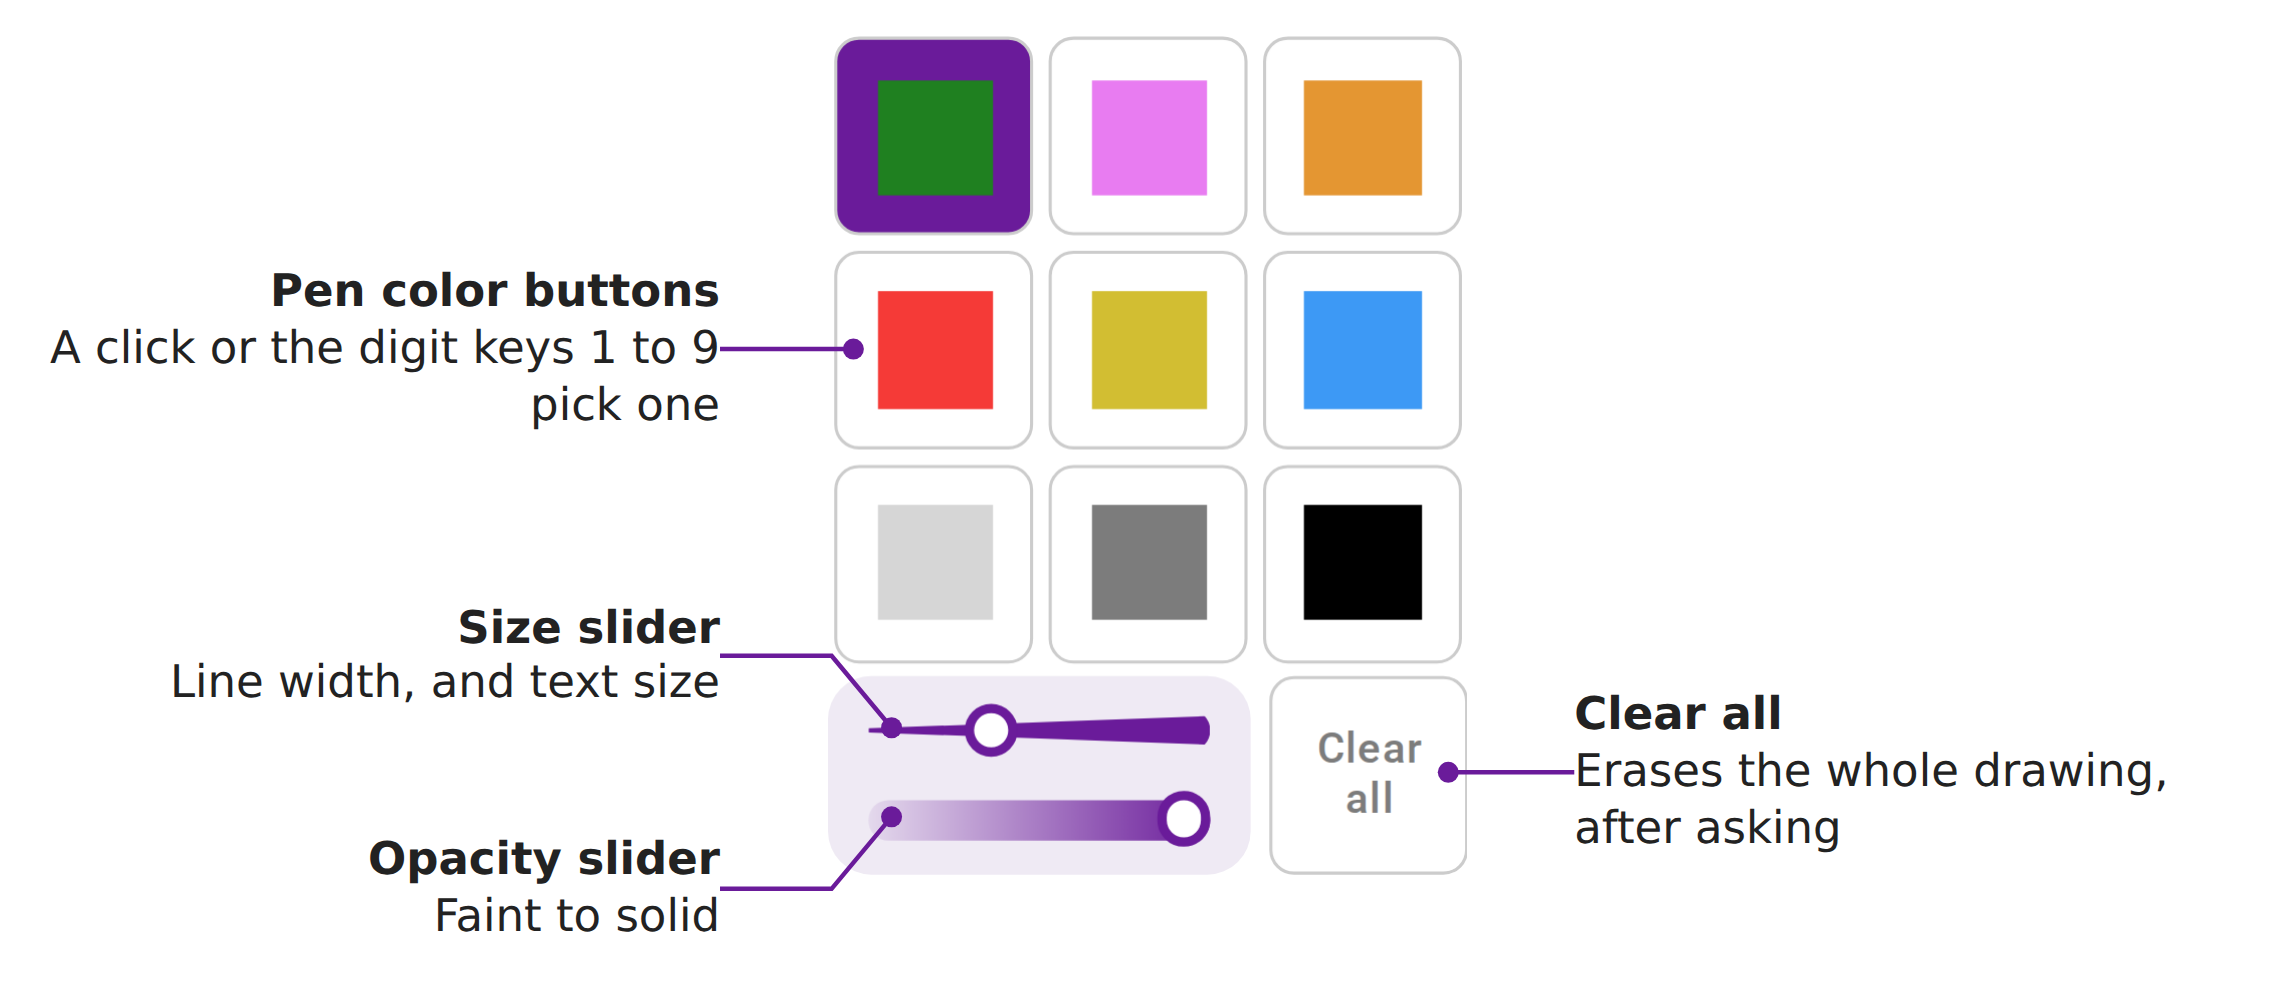
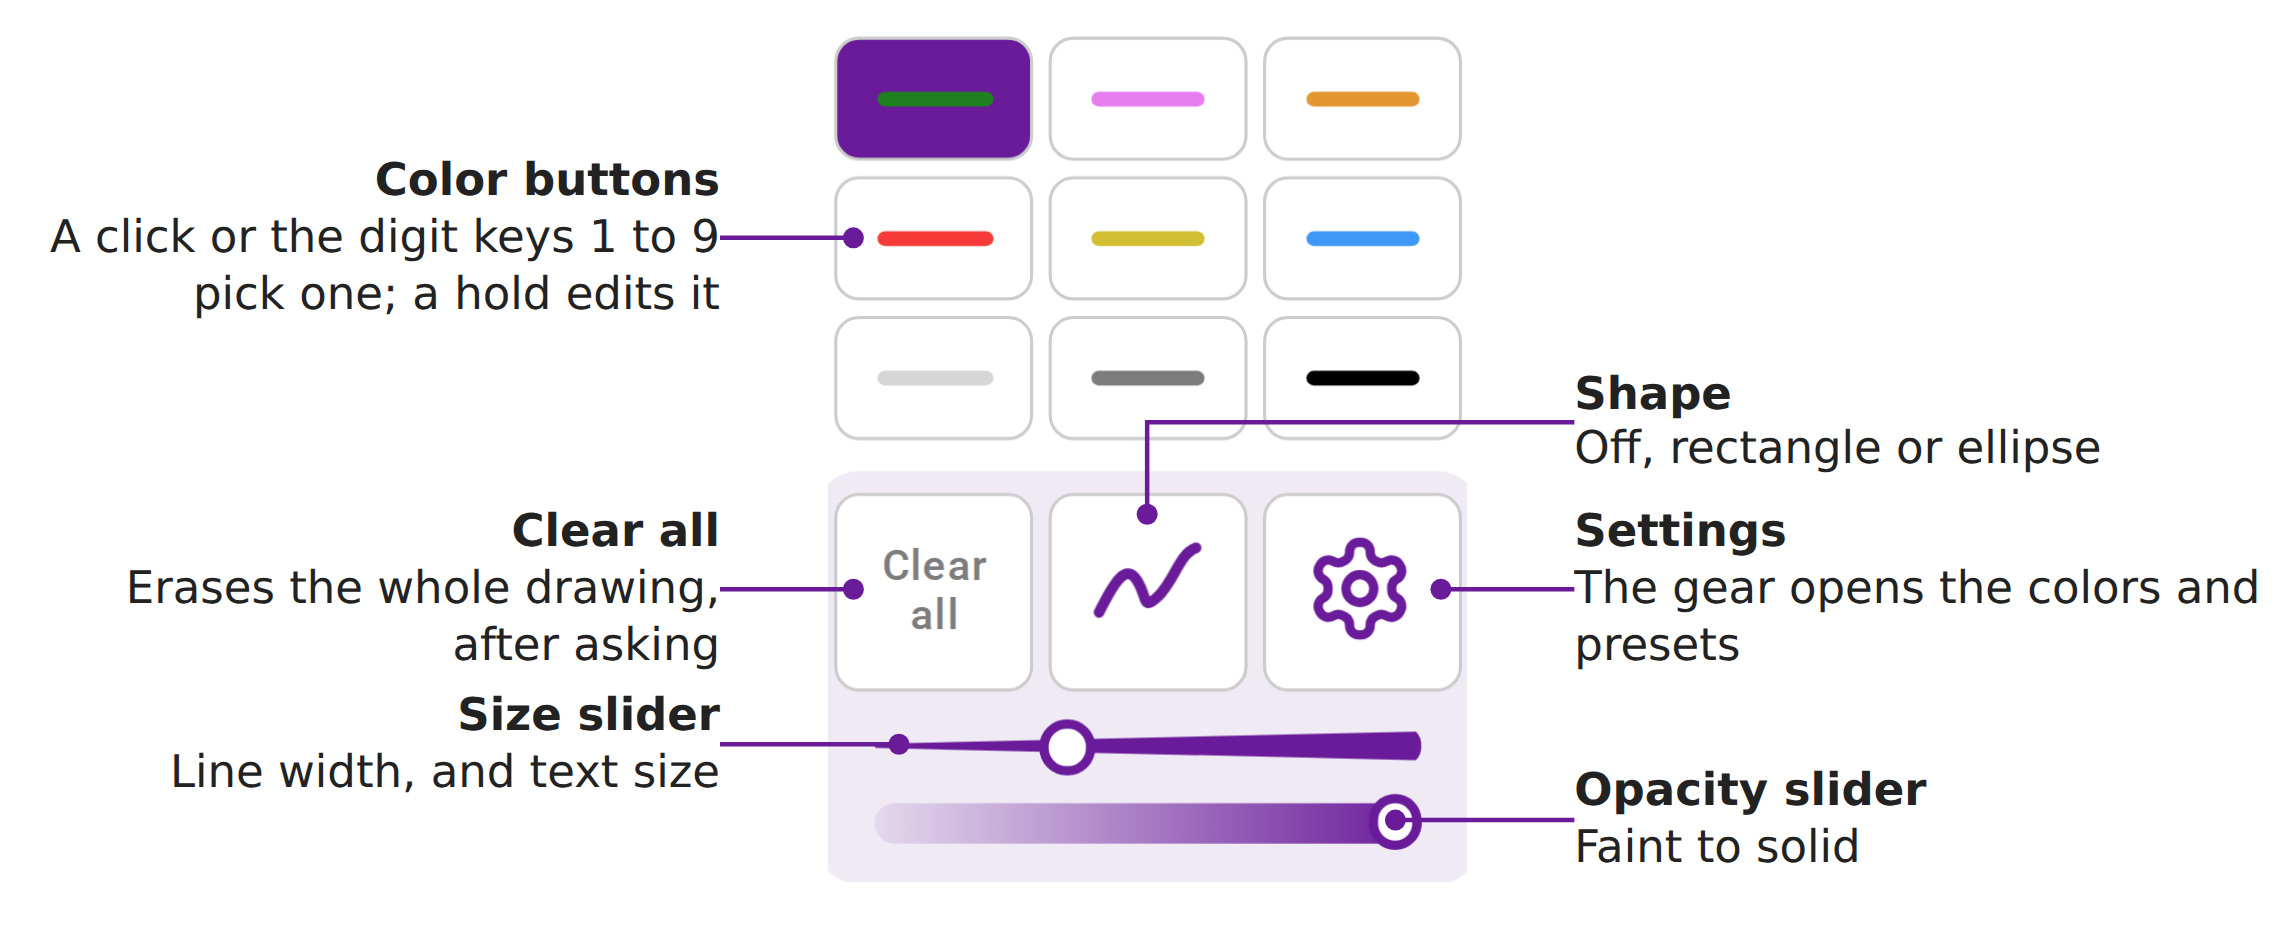
Draw Tool site: new summary, details page and pictures for the new panel
Summary and @description drop "in the pen colors" and name shapes (0.11.1).
Details page adds Shapes, Colors of its own and Settings, with Text, Erasing
and Shapes as animations; the annotated panel and homepage pictures are retaken.

Closes #312

Changed region(s): [[0.0309, 0.0312, 0.99, 0.9355], [0.1856, 0.9043, 0.3094, 0.9355]]

diff --git a/site.test.js b/site.test.js
@@ -363,8 +363,15 @@ test(`${CBD} good to know gives the undo behavior and the Multi-color caveat`, (
 })
 
 // Draw Tool's entry and details page.
-const DRAW_SUMMARY = 'Adds a Draw tool for freehand lines and typed text, such as cage sums, in the pen colors. Each puzzle keeps its own drawing.'
-const DRAW_LEAD_INS = ['Freehand lines.', 'Text.', 'Size and opacity.', 'Erasing.', 'Stays on the cells.', 'Kept for each puzzle.']
+const DRAW_SUMMARY = 'Adds a Draw tool for freehand lines, shapes and typed text, such as cage sums, in colors of its own. Each puzzle keeps its own drawing.'
+const DRAW_LEAD_INS = ['Freehand lines.', 'Shapes.', 'Text.', 'Colors of its own.', 'Size and opacity.', 'Erasing.', 'Settings.', 'Stays on the cells.', 'Kept for each puzzle.']
+// The three animations on the details page: the lead-in each sits on, its file, and what its alt text must say.
+const DRAW_GIFS = {
+  'Shapes.': ['draw-tool-details-shapes.gif', /rectangle[^"]*snaps to the edges/],
+  'Text.': ['draw-tool-details-text.gif', /Enter[^"]*\b15\b/],
+  'Erasing.': ['draw-tool-details-erasing.gif', /right-drag[^"]*removes/]
+}
+const GIF_LIMIT_BYTES = 300 * 1024
 
 test(`${HOME} describes Draw Tool in a short summary ending in a Details link`, () => {
   const m = read(HOME).match(/<h2>Draw Tool<\/h2>\s*<p>([\s\S]*?)<\/p>/)
@@ -375,10 +382,13 @@ test(`${HOME} describes Draw Tool in a short summary ending in a Details link`, 
 test(`${DRAW} lists what the script adds, one item per feature`, () => {
   assert.deepEqual(section(DRAW, 'What it adds'), [
     'Freehand lines. Drag on the puzzle to draw; hold Shift for a straight line.',
+    'Shapes. The Shape button steps between Off, rectangle and ellipse. With a shape on, a drag draws it, snapped to the edges of the cells it covers; hold Alt for the exact box you dragged.',
     'Text. Click without dragging to type, such as a cage sum. Enter or a click elsewhere finishes it, Escape drops it, and a click on text changes it.',
-    'Size and opacity. The Size slider sets the width of the next line and the size of the next text, and the Opacity slider how solid it is. A line or text keeps the size and opacity it was drawn with.',
-    'Erasing. Drag with the right mouse button across a line or text to erase it. Clear all, which asks first, erases everything.',
-    'Stays on the cells. Lines and text stay on the cells you drew them on, and stay visible when you switch back to entering digits.',
+    'Colors of its own. Nine colors that belong to Draw Tool, not to SudokuPad\'s pen. A click on a color button or the digit keys 1 to 9 pick one, and a hold on a button puts a color picker over each to change it.',
+    'Size and opacity. The Size slider sets the width of the next line or shape and the size of the next text, and the Opacity slider how solid it is. A line, shape or text keeps the size and opacity it was drawn with.',
+    'Erasing. Drag with the right mouse button across a line, shape or text to erase it. Clear all, which asks first, erases everything.',
+    'Settings. The gear opens a dialog with a list of color presets (the pen colors, three darker page sets and SudokuPad\'s colors), a color picker for each of the nine colors, and Copy settings and Paste settings to move them to another browser.',
+    'Stays on the cells. Lines, shapes and text stay on the cells you drew them on, and stay visible when you switch back to entering digits.',
     'Kept for each puzzle. A reload keeps the drawing, for the 50 puzzles you drew on last, and Restart clears it. If a drawing cannot be saved, a message says so.'
   ])
   assert.deepEqual(leadIns(read(DRAW)), DRAW_LEAD_INS)
@@ -391,10 +401,26 @@ test(`${DRAW} shows the Draw panel as one annotated picture whose alt text names
   assert.equal(found.length, 1, 'the Draw panel section is not one picture')
   assert.ok(withoutTag(found[0]).includes(`src="${RAW}docs/research/draw-tool-panel-annotated.png"`))
   const alt = (found[0].match(/alt="([^"]*)"/) || [])[1] || ''
-  for (const label of ['Pen color buttons', 'Size slider', 'Opacity slider', 'Clear all']) {
+  for (const label of ['Color buttons', 'Clear all', 'Shape', 'Settings', 'Size slider', 'Opacity slider']) {
     assert.ok(alt.includes(label), `the picture's alt text does not name "${label}"`)
   }
   assert.match(alt, /digit keys 1 to 9/)
+})
+
+test(`${DRAW}'s Text, Erasing and Shapes pictures are animations under 300 KB whose alt text says so`, () => {
+  const byLeadIn = new Map(items(read(DRAW)).map(li => [leadIn(li), li]))
+  for (const [lead, [file, what]] of Object.entries(DRAW_GIFS)) {
+    const [img] = imgs(byLeadIn.get(lead))
+    assert.ok(withoutTag(img).includes(`src="${RAW}docs/research/${file}"`), `"${lead}" does not show ${file}`)
+    const alt = (img.match(/alt="([^"]*)"/) || [])[1] || ''
+    assert.match(alt, /^An animation/, `"${lead}" alt text does not say it is an animation`)
+    assert.match(img.match(/alt="[^"]*"/)[0], what, `"${lead}" alt text does not describe its steps`)
+    const file2 = `docs/research/${file}`
+    assert.ok(fs.statSync(path.join(__dirname, file2)).size < GIF_LIMIT_BYTES, `${file} is over 300 KB`)
+    const [fileW, fileH] = pictureSize(file2)
+    const [w, h] = ['width', 'height'].map(a => Number((img.match(new RegExp(`${a}="(\\d+)"`)) || [])[1]))
+    assert.ok(Math.abs(w * fileH - h * fileW) <= fileW, `"${lead}" is declared ${w} by ${h} but its file is ${fileW} by ${fileH}`)
+  }
 })
 
 test(`${DRAW} good to know says the drawing stays in this browser`, () => {
@@ -422,9 +448,9 @@ shared({
   script: 'draw-tool',
   name: 'Draw Tool',
   summary: DRAW_SUMMARY,
-  intro: 'Adds to SudokuPad a Draw tool: drag on the puzzle to draw freehand lines, and click to type text, such as cage sums, in the pen colors.',
+  intro: 'Adds to SudokuPad a Draw tool: drag on the puzzle to draw freehand lines or shapes, and click to type text, such as cage sums, in colors of its own.',
   leadIns: DRAW_LEAD_INS,
-  pictures: { 'Freehand lines.': 'draw-tool-bullet-lines', 'Text.': 'draw-tool-bullet-text' },
+  pictures: { 'Freehand lines.': 'draw-tool-bullet-lines', 'Shapes.': 'draw-tool-details-shapes.gif', 'Text.': 'draw-tool-details-text.gif', 'Erasing.': 'draw-tool-details-erasing.gif' },
   homePicture: 'site-draw-tool.png'
 })
 

diff --git a/site/draw-tool.html b/site/draw-tool.html
@@ -16,7 +16,7 @@
   <p><a href="index.html">&larr; All SudokuPad scripts</a></p>
   <h1>Draw Tool</h1>
   <p class="warning">This script can break at any time. It relies on SudokuPad's internals, which any update can change, and it isn't made or supported by SudokuPad.</p>
-  <p>Adds to <a href="https://sudokupad.app">SudokuPad</a> a Draw tool: drag on the puzzle to draw freehand lines, and click to type text, such as cage sums, in the pen colors.</p>
+  <p>Adds to <a href="https://sudokupad.app">SudokuPad</a> a Draw tool: drag on the puzzle to draw freehand lines or shapes, and click to type text, such as cage sums, in colors of its own.</p>
   <p><a class="install" href="https://raw.githubusercontent.com/caneff/sudokupad-scripts/main/draw-tool.user.js">Install Draw Tool</a></p>
 
   <h2>What it adds</h2>
@@ -24,17 +24,24 @@
     <li><strong>Freehand lines.</strong> Drag on the puzzle to draw; hold Shift for a straight line.
       <img src="https://raw.githubusercontent.com/caneff/sudokupad-scripts/main/docs/research/draw-tool-bullet-lines.png?v=8e6152d" alt="A thin blue straight line, a green loop round two cells and a thick red curved arrow drawn on a sudoku grid" width="360" height="396">
     </li>
-    <li><strong>Text.</strong> Click without dragging to type, such as a cage sum. Enter or a click elsewhere finishes it, Escape drops it, and a click on text changes it.
-      <img src="https://raw.githubusercontent.com/caneff/sudokupad-scripts/main/docs/research/draw-tool-bullet-text.png?v=f9dbff7" alt="An orange cage sum, 17, typed in the corner of a cell" width="149" height="149">
+    <li><strong>Shapes.</strong> The Shape button steps between Off, rectangle and ellipse. With a shape on, a drag draws it, snapped to the edges of the cells it covers; hold Alt for the exact box you dragged.
+      <img src="https://raw.githubusercontent.com/caneff/sudokupad-scripts/main/docs/research/draw-tool-details-shapes.gif?v=2513554" alt="An animation of a sudoku grid: with Shape set to rectangle, a drag from one cell to a cell two columns and one row away draws a blue rectangle that snaps to the edges of the four cells it covers, and the picture rests on that rectangle" width="290" height="290">
     </li>
-    <li><strong>Size and opacity.</strong> The Size slider sets the width of the next line and the size of the next text, and the Opacity slider how solid it is. A line or text keeps the size and opacity it was drawn with.</li>
-    <li><strong>Erasing.</strong> Drag with the right mouse button across a line or text to erase it. Clear all, which asks first, erases everything.</li>
-    <li><strong>Stays on the cells.</strong> Lines and text stay on the cells you drew them on, and stay visible when you switch back to entering digits.</li>
+    <li><strong>Text.</strong> Click without dragging to type, such as a cage sum. Enter or a click elsewhere finishes it, Escape drops it, and a click on text changes it.
+      <img src="https://raw.githubusercontent.com/caneff/sudokupad-scripts/main/docs/research/draw-tool-details-text.gif?v=6d3bd77" alt="An animation of one sudoku cell: a click in its corner opens a text box, 1 and 5 are typed, and Enter leaves the orange cage sum 15 in the corner" width="149" height="149">
+    </li>
+    <li><strong>Colors of its own.</strong> Nine colors that belong to Draw Tool, not to SudokuPad's pen. A click on a color button or the digit keys 1 to 9 pick one, and a hold on a button puts a color picker over each to change it.</li>
+    <li><strong>Size and opacity.</strong> The Size slider sets the width of the next line or shape and the size of the next text, and the Opacity slider how solid it is. A line, shape or text keeps the size and opacity it was drawn with.</li>
+    <li><strong>Erasing.</strong> Drag with the right mouse button across a line, shape or text to erase it. Clear all, which asks first, erases everything.
+      <img src="https://raw.githubusercontent.com/caneff/sudokupad-scripts/main/docs/research/draw-tool-details-erasing.gif?v=615c892" alt="An animation of a sudoku grid with a green line across two cells: a right-drag across the line removes it, and the picture rests on the plain grid" width="290" height="219">
+    </li>
+    <li><strong>Settings.</strong> The gear opens a dialog with a list of color presets (the pen colors, three darker page sets and SudokuPad's colors), a color picker for each of the nine colors, and Copy settings and Paste settings to move them to another browser.</li>
+    <li><strong>Stays on the cells.</strong> Lines, shapes and text stay on the cells you drew them on, and stay visible when you switch back to entering digits.</li>
     <li><strong>Kept for each puzzle.</strong> A reload keeps the drawing, for the 50 puzzles you drew on last, and Restart clears it. If a drawing cannot be saved, a message says so.</li>
   </ul>
 
   <h2>The Draw panel</h2>
-  <img class="panel" src="https://raw.githubusercontent.com/caneff/sudokupad-scripts/main/docs/research/draw-tool-panel-annotated.png?v=0a9e79c" alt="The Draw panel with each part labelled. Pen color buttons: a click or the digit keys 1 to 9 pick a color. Size slider: sets the width of the next line and the size of the next text. Opacity slider: sets how solid the next line or text is. Clear all: erases the whole drawing, after asking." width="765" height="334">
+  <img class="panel" src="https://raw.githubusercontent.com/caneff/sudokupad-scripts/main/docs/research/draw-tool-panel-annotated.png?v=eda6840" alt="The Draw panel with each part labelled. Color buttons: a click or the digit keys 1 to 9 pick one, and a hold edits it. Clear all: erases the whole drawing, after asking. Size slider: line width, and text size. Opacity slider: faint to solid. Shape: off, rectangle or ellipse. Settings: the gear opens the colors and presets." width="765" height="310">
 
   <h2>Good to know</h2>
   <ul>

diff --git a/site/index.html b/site/index.html
@@ -65,10 +65,10 @@
     </div>
   </section>
   <section>
-    <img src="https://raw.githubusercontent.com/caneff/sudokupad-scripts/main/docs/research/site-draw-tool.png?v=559f56d" alt="Freehand lines on a sudoku grid in three pen colors and widths: a thin blue straight line, a green loop round two cells, a thick red curved arrow and an orange cage sum, 17, typed in a cell's corner, beside the Draw panel with its nine pen color buttons, a Size slider, an Opacity slider and a Clear all button, red marked, the Size slider set to a thick line" width="777" height="382">
+    <img src="https://raw.githubusercontent.com/caneff/sudokupad-scripts/main/docs/research/site-draw-tool.png?v=7f203c0" alt="Freehand lines and a shape on a sudoku grid in three colors and widths: a thin blue straight line, a green loop round two cells, a thick red curved arrow, a pink rectangle round two cells and an orange cage sum, 17, typed in a cell's corner, beside the Draw panel with its nine color buttons, Clear all, the Shape button showing a rectangle, the settings gear, a Size slider set to a thick line and an Opacity slider" width="777" height="382">
     <div>
       <h2>Draw Tool</h2>
-      <p>Adds a Draw tool for freehand lines and typed text, such as cage sums, in the pen colors. Each puzzle keeps its own drawing. <a href="draw-tool.html">Details</a></p>
+      <p>Adds a Draw tool for freehand lines, shapes and typed text, such as cage sums, in colors of its own. Each puzzle keeps its own drawing. <a href="draw-tool.html">Details</a></p>
       <p><a class="install" href="https://raw.githubusercontent.com/caneff/sudokupad-scripts/main/draw-tool.user.js">Install Draw Tool</a></p>
     </div>
   </section>

diff --git a/draw-tool.user.js b/draw-tool.user.js
@@ -1,8 +1,8 @@
 // ==UserScript==
 // @name         SudokuPad Draw Tool
 // @namespace    https://github.com/caneff/sudokupad-scripts
-// @version      0.11.0
-// @description  Adds a Draw tool for freehand lines and typed text, such as cage sums, in the pen colors. Each puzzle keeps its own drawing.
+// @version      0.11.1
+// @description  Adds a Draw tool for freehand lines, shapes and typed text, such as cage sums, in colors of its own. Each puzzle keeps its own drawing.
 // @match        https://sudokupad.app/*
 // @match        https://*.sudokupad.app/*
 // @match        https://crackingthecryptic.com/*
@@ -16,7 +16,7 @@
 (function () {
   'use strict'
 
-  const VERSION = '0.11.0'
+  const VERSION = '0.11.1'
   const TOOL_NAME = 'draw'
   const LAYER_ID = 'draw-tool-layer'
   const SVG_NS = 'http://www.w3.org/2000/svg'

diff --git a/README.md b/README.md
@@ -16,7 +16,7 @@ Browse them with pictures at <https://caneff.github.io/sudokupad-scripts/>.
 | --- | --- | --- |
 | Color by Digit | Adds a button that colors cells, or the digits and marks in them, by digit, with colors you give to groups of digits, and keeps the colors in step as you solve. [Details](https://caneff.github.io/sudokupad-scripts/color-by-digit.html) | [Install](https://raw.githubusercontent.com/caneff/sudokupad-scripts/main/color-by-digit.user.js) |
 | Pen Tool Extras | Adds pen colors, solid, dashed and arrow pens, sliders, and edge and corner marks. [Details](docs/pen-tool-extras.md) | [Install](https://raw.githubusercontent.com/caneff/sudokupad-scripts/main/pen-tool-extras.user.js) |
-| Draw Tool | Adds a Draw tool for freehand lines and typed text, such as cage sums, in the pen colors. Each puzzle keeps its own drawing. [Details](https://caneff.github.io/sudokupad-scripts/draw-tool.html) | [Install](https://raw.githubusercontent.com/caneff/sudokupad-scripts/main/draw-tool.user.js) |
+| Draw Tool | Adds a Draw tool for freehand lines, shapes and typed text, such as cage sums, in colors of its own. Each puzzle keeps its own drawing. [Details](https://caneff.github.io/sudokupad-scripts/draw-tool.html) | [Install](https://raw.githubusercontent.com/caneff/sudokupad-scripts/main/draw-tool.user.js) |
 | Dark Page | Makes the page black around the puzzle, or a color you pick. | [Install](https://raw.githubusercontent.com/caneff/sudokupad-scripts/main/dark-page.user.js) |
 | No Tab Letters | Stops Tab from toggling SudokuPad's letter mode. | [Install](https://raw.githubusercontent.com/caneff/sudokupad-scripts/main/no-tab-letters.user.js) |
 | Auto Rules Resizer | Fits the rules pane to the screen in landscape: the largest text that fits, widening the pane only when the rules need it. | [Install](https://raw.githubusercontent.com/caneff/sudokupad-scripts/main/auto-rules-resizer.user.js) |
